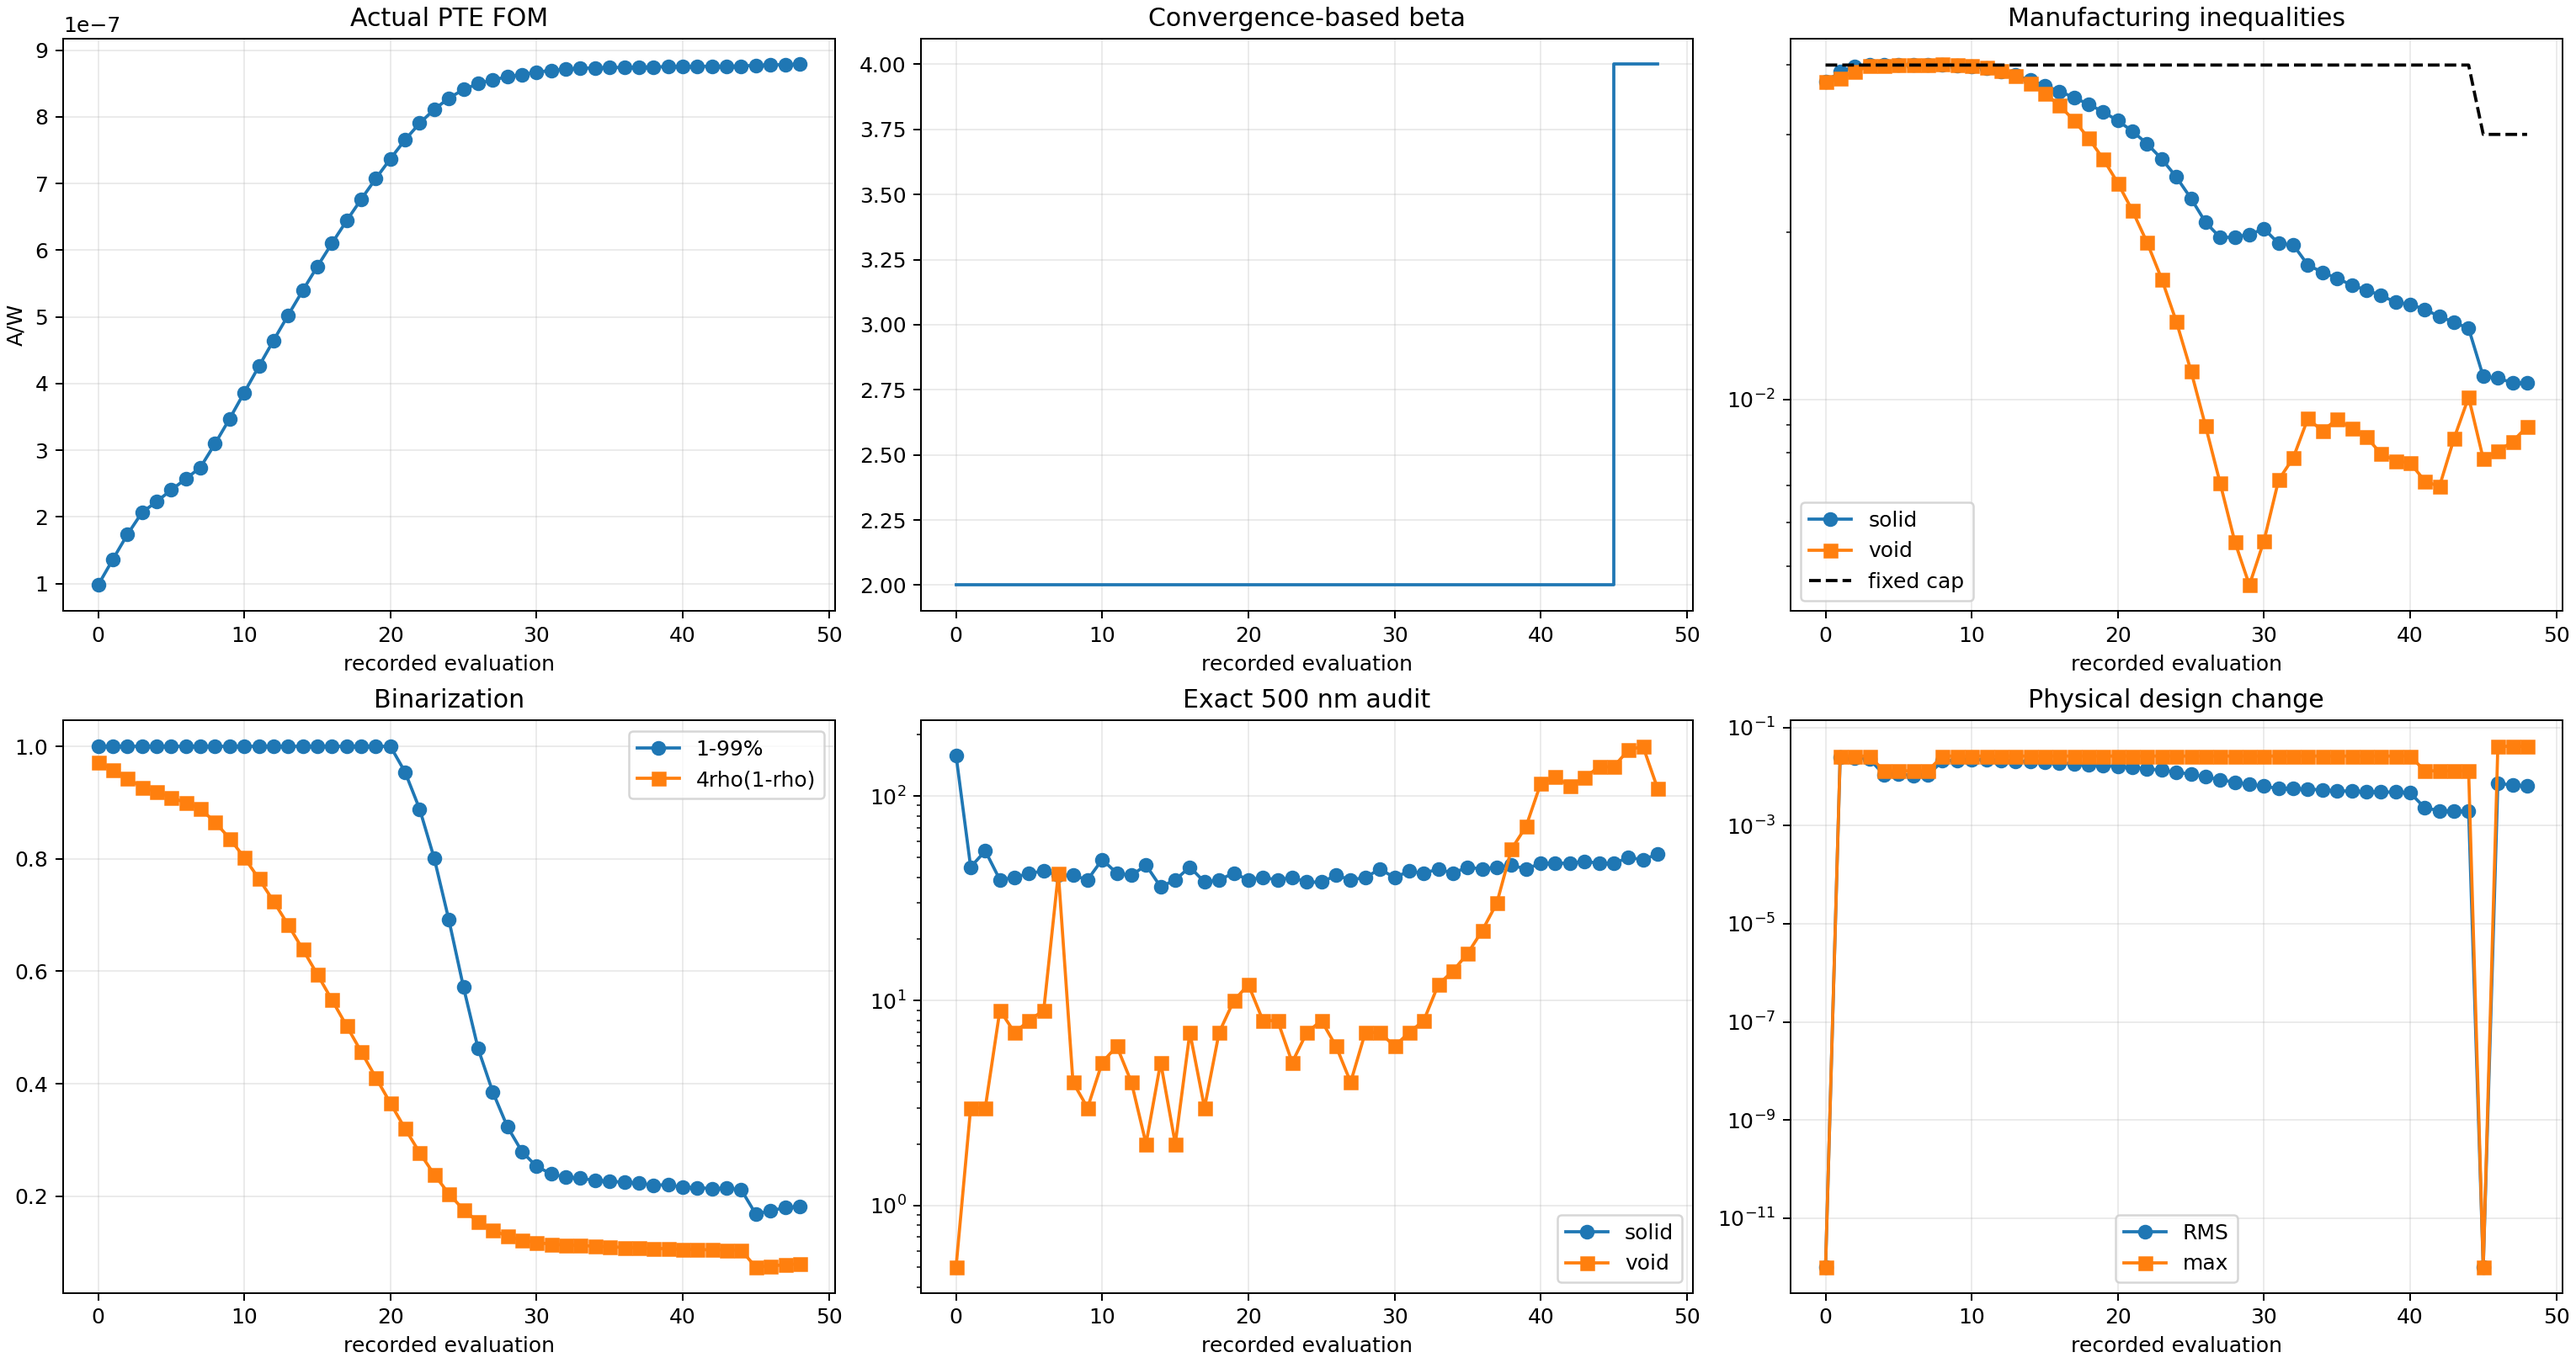
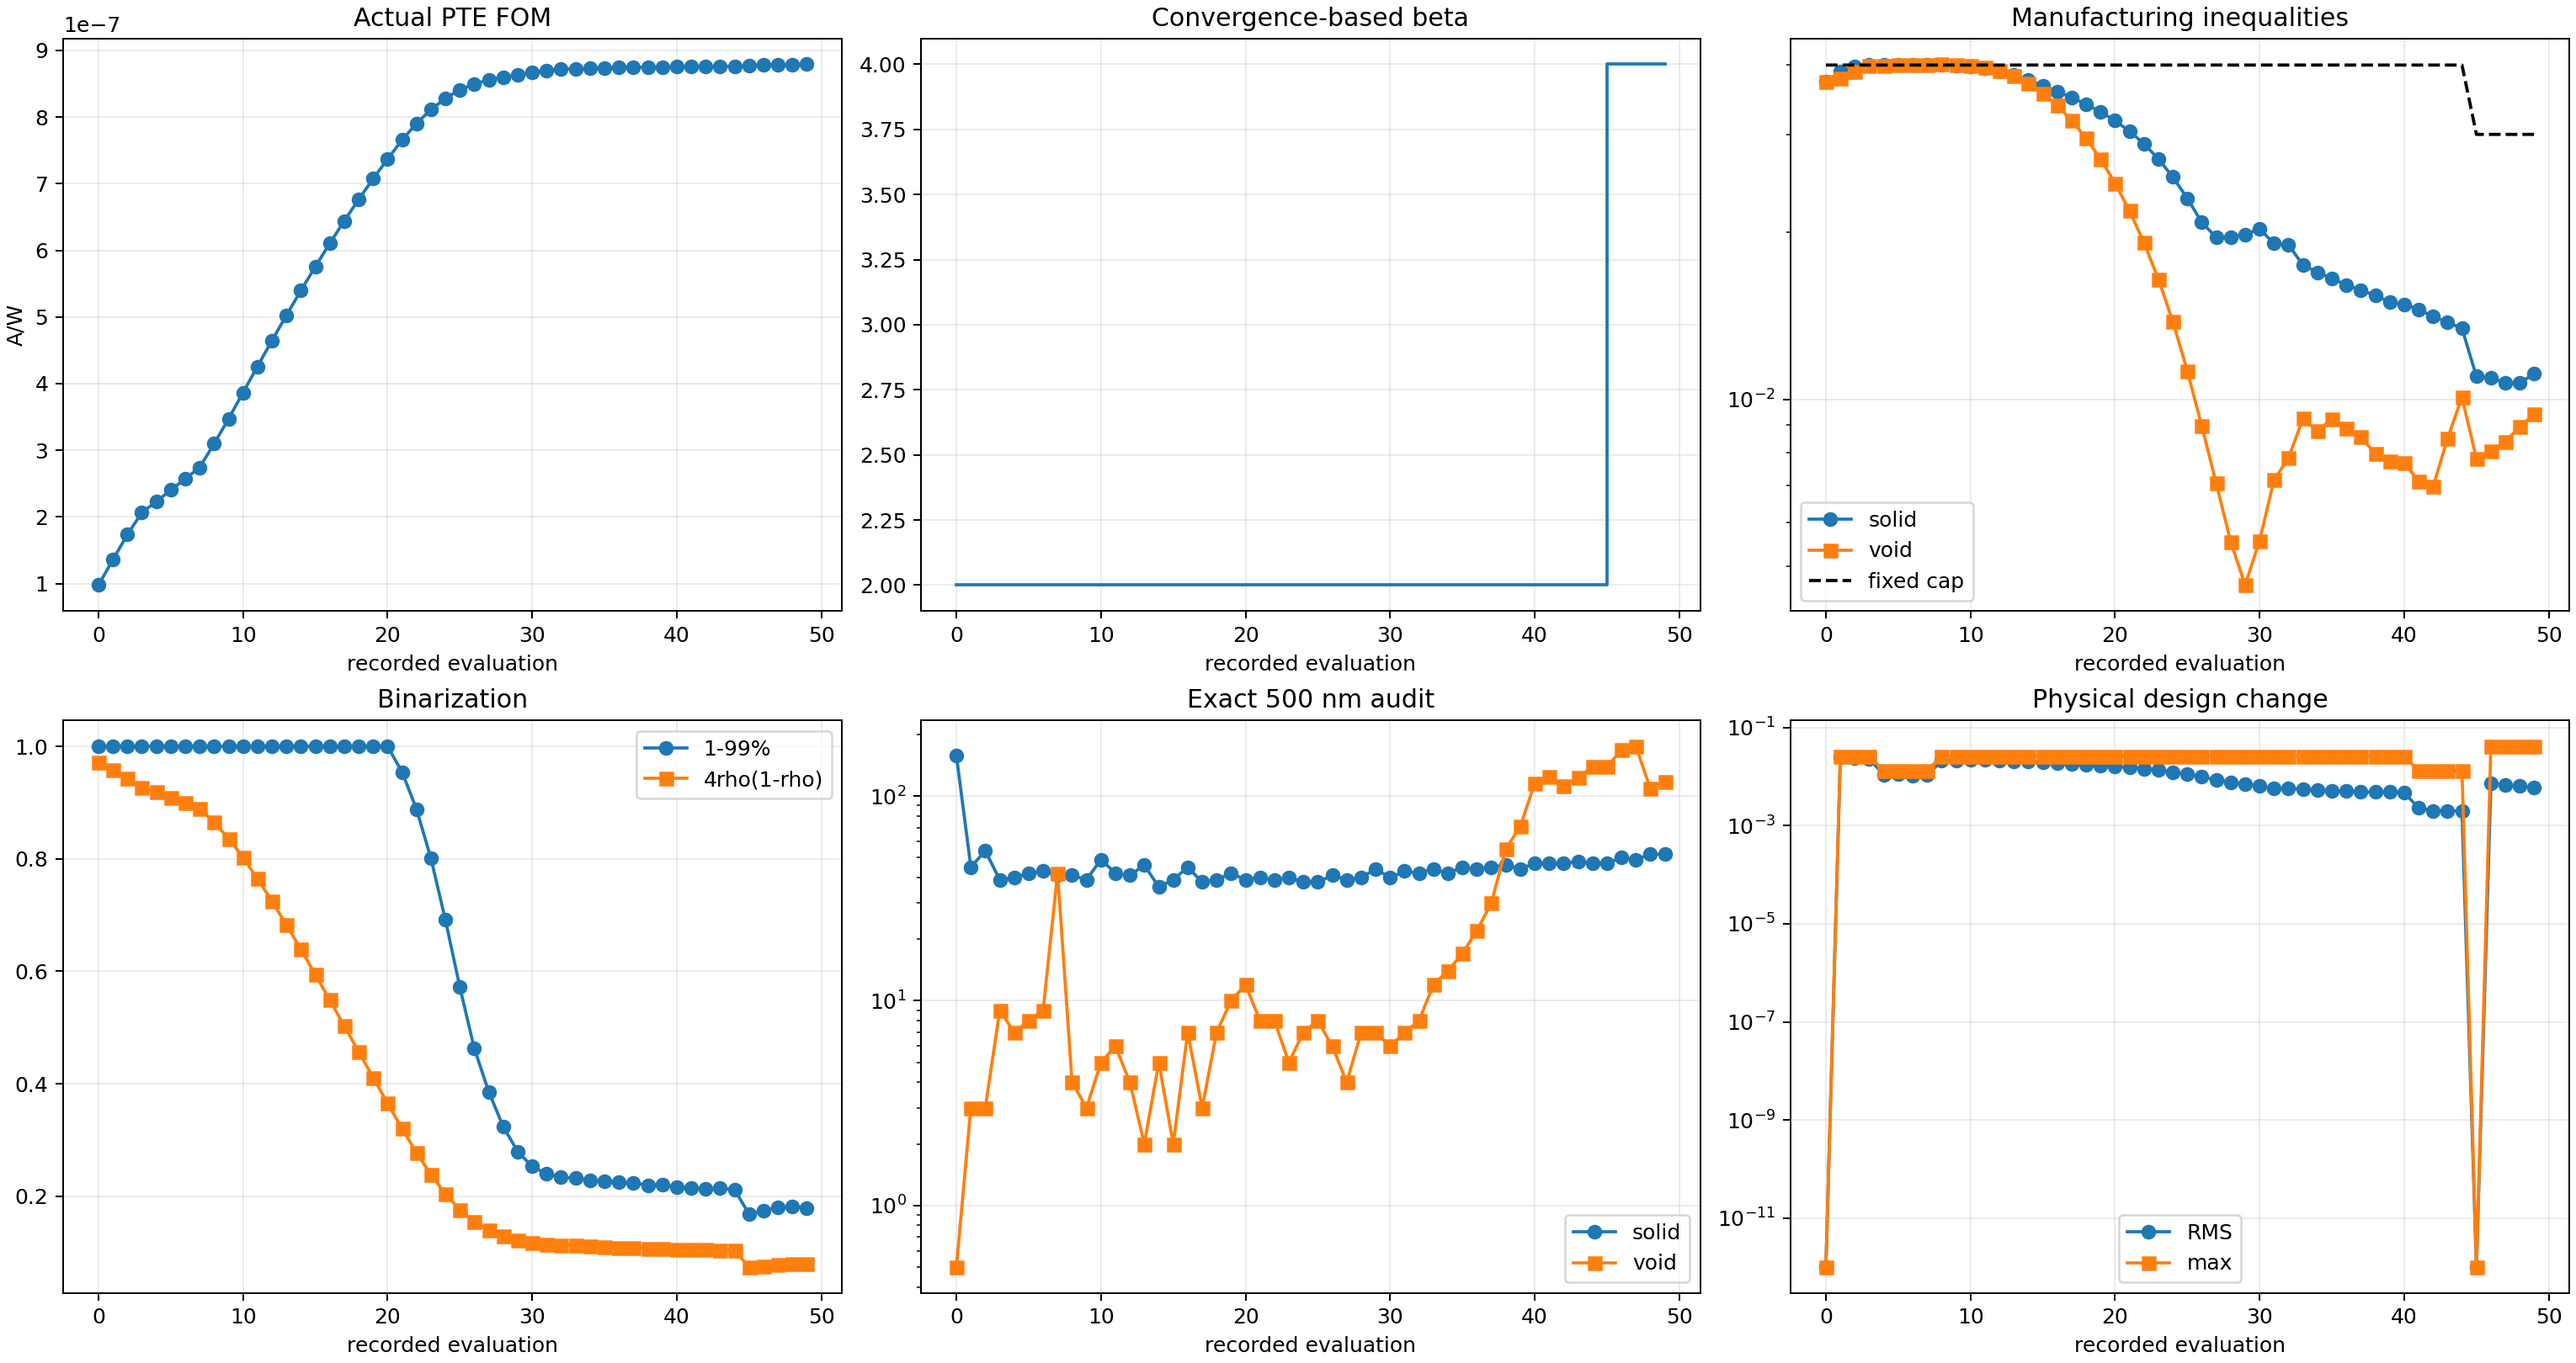
Record Run 003 run003_b004_s004_g048_accepted_mma

diff --git a/photothermal_pte/optimization_runs/run_003_gaussian10_w8p5_current_max_converged/results/OPTIMIZATION_REPORT.md b/photothermal_pte/optimization_runs/run_003_gaussian10_w8p5_current_max_converged/results/OPTIMIZATION_REPORT.md
@@ -2,10 +2,10 @@
 
 Status: `RUNNING_CONVERGENCE_BASED_CONSTRAINED_BETA_CONTINUATION`
 
-Current stage: beta=4, accepted stage iteration=3, global iteration=47.
+Current stage: beta=4, accepted stage iteration=4, global iteration=48.
 
-Actual FOM: `8.787055995058e-07 A/W`. Fixed-cap solid/void constraints: `1.069210e-02` / `8.924255e-03` with cap `3.000000e-02`.
+Actual FOM: `8.790459024095e-07 A/W`. Fixed-cap solid/void constraints: `1.112336e-02` / `9.400620e-03` with cap `3.000000e-02`.
 
-Exact 500 nm bad cells: solid `52`, void `109`. Stage convergence: `False` (need at least 8 accepted updates).
+Exact 500 nm bad cells: solid `52`, void `118`. Stage convergence: `False` (need at least 8 accepted updates).
 
 Beta is promoted only after fixed-inequality feasibility and a four-update FOM/design plateau; it is never promoted after one nominal update.
